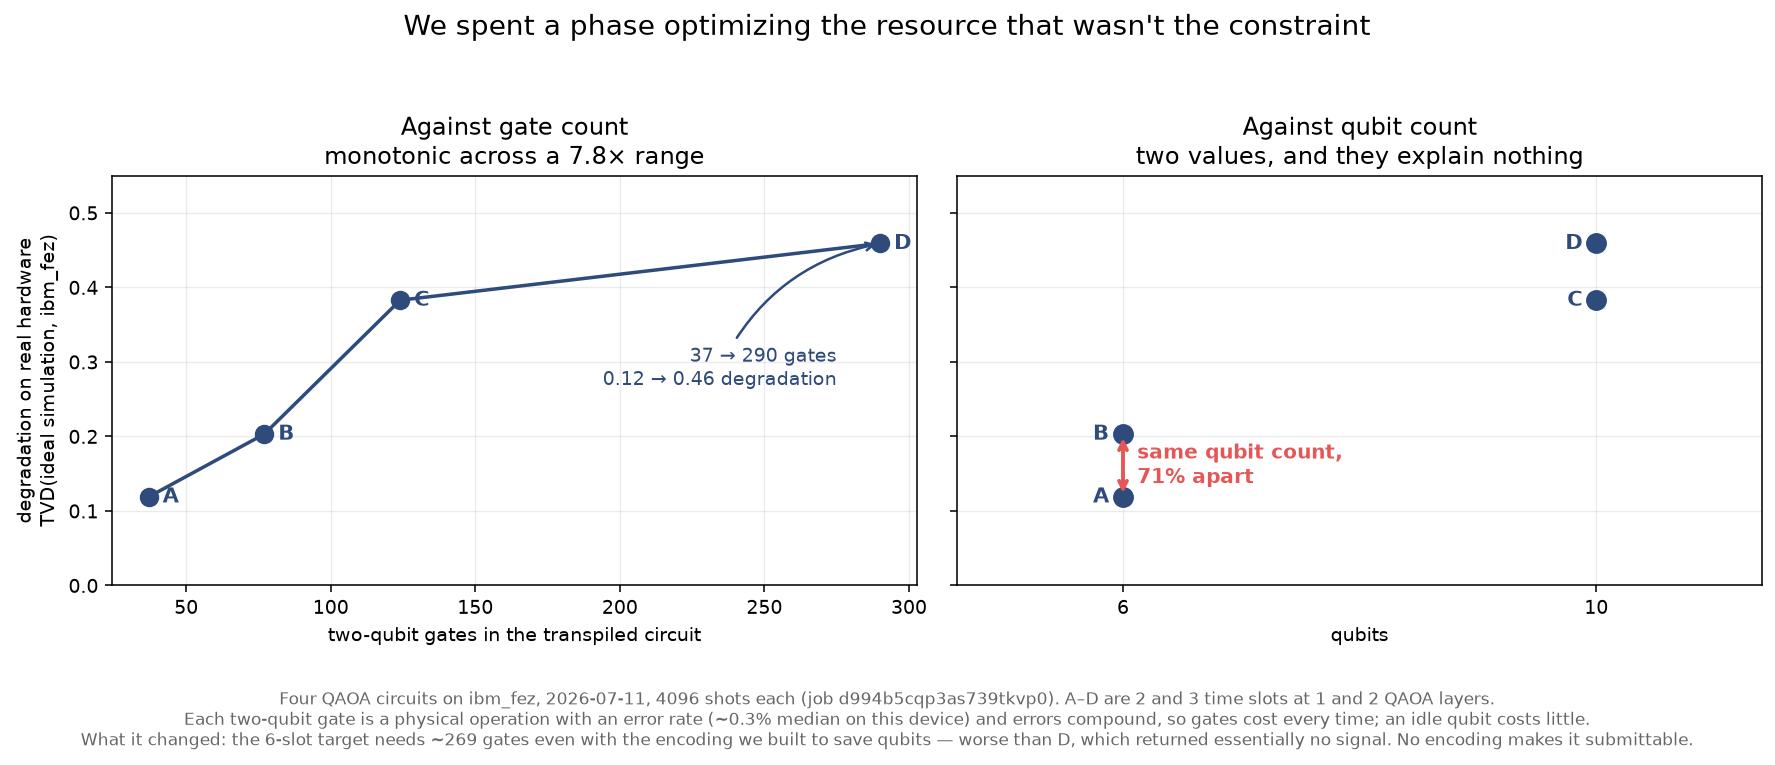
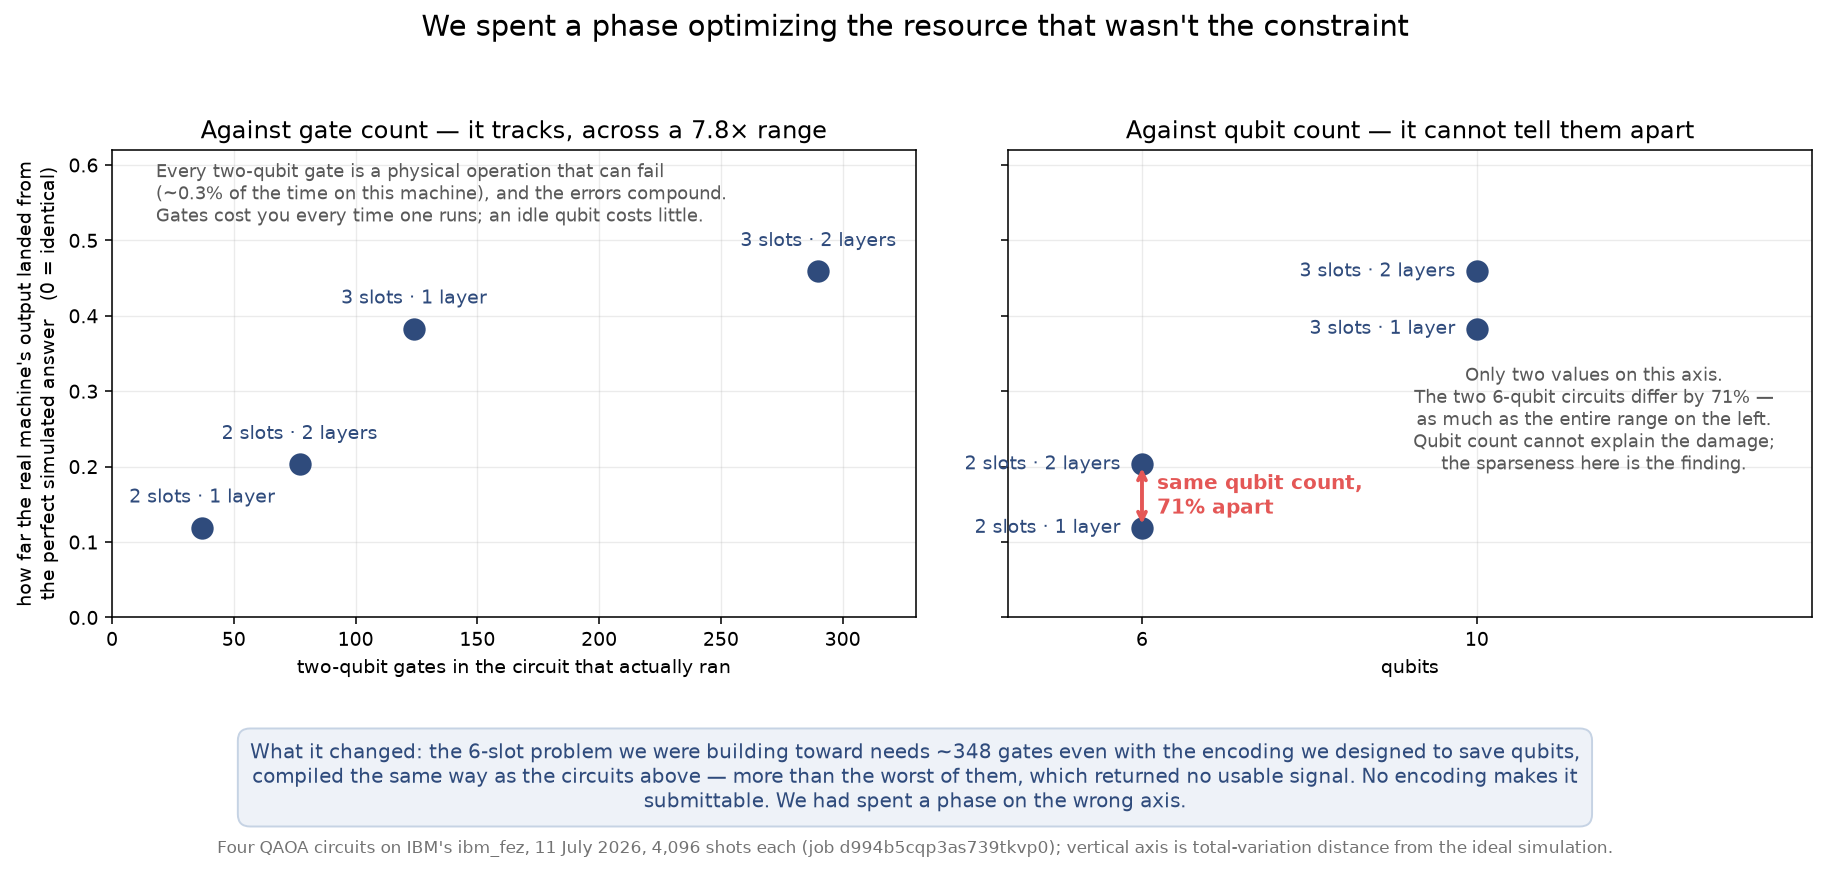
Redraw gates_vs_qubits to stand alone; fix a mixed-level comparison
The figure has to work as an attachment with no surrounding text, read by people
outside the field. Six changes to that end.

The y-axis said "TVD(ideal simulation, ibm_fez)" and now says how far the real
machine's output landed from the perfect simulated answer, with 0 = identical; TVD
stays in the caption for the technical reader. Points are labelled with what they
are -- "2 slots, 1 layer" -- rather than A to D, which nothing on the plot
explained. The connecting line is gone: these are four discrete circuits, not a
sampled curve, and a line implies a continuum that was never measured. The right
panel now states its own emptiness as the argument ("only two values on this axis
... the sparseness here is the finding") instead of reading as a chart that failed
to render. The range annotation whose arrow pointed at a single point is gone; the
range lives in the panel title. The caption is one line, and what was load-bearing
in it -- why gates cost and qubits do not, and what the result changed -- is now
inside the figure.

Fixing the last of those turned up a real error, and not in the figure.

LESSONS.md section 2 put the 6-slot problem's ~269 gates against circuit D's 290
and called it worse. 269 is fewer than 290, so as written the sentence reads as its
own refutation. The two numbers come from different transpiler settings: 269 is
optimization_level=3, while the section's table -- and this figure's x-axis -- is
[…]

diff --git a/scripts/make_gates_vs_qubits_figure.py b/scripts/make_gates_vs_qubits_figure.py
@@ -17,11 +17,20 @@ rate (~0.3% median on this device, recorded at submission) and errors compound
 multiplicatively. An idle qubit costs comparatively little; a gate costs every
 time it runs.
 
-What it changed: the 6-slot target needs ~269 gates even with the better encoding,
-worse than the worst circuit here, which had already produced essentially no usable
-signal. **No encoding makes it submittable.** A phase had gone into optimizing a
-resource that was not the binding constraint, and fifteen minutes with data already
-in hand would have reordered the project.
+What it changed: the 6-slot target needs ~348 gates even with the better encoding,
+more than the worst circuit here (290), which had already produced essentially no
+usable signal. **No encoding makes it submittable.** A phase had gone into
+optimizing a resource that was not the binding constraint, and fifteen minutes with
+data already in hand would have reordered the project.
+
+COMPILE THE COMPARISON THE SAME WAY. LESSONS.md section 2 used to put ~269 gates
+against circuit D's 290, which reads as *fewer* and makes a true claim look false.
+Those are different transpiler settings: 269 is the 6-slot circuit at
+`optimization_level=3`, while 290 -- and this figure's whole x-axis -- is level 1,
+which is what the run actually used. Like for like it is 348 vs 290 at level 1, or
+269 vs 237 at level 3; the gap holds at either, and only the mixed pairing was
+wrong. Both columns are committed in `docs/results/slack-free-encoding.md`. If you
+ever change which level this axis carries, change the 348 with it.
 
 DATA PROVENANCE, all committed, nothing re-run:
   * degradation -- TVD(ideal-sim, hardware), rebuilt here from the raw device
@@ -62,10 +71,10 @@ OUT = ROOT / "docs" / "figures" / "web" / "gates_vs_qubits.png"
 # (slack-free-encoding.md, "Transpiler optimization level"); `published` is
 # LESSONS.md section 2's degradation column, which this script must reproduce.
 CIRCUITS = [
-    {"T": 2, "reps": 1, "qubits": 6, "gates": 37, "published": 0.119, "tag": "A"},
-    {"T": 2, "reps": 2, "qubits": 6, "gates": 77, "published": 0.203, "tag": "B"},
-    {"T": 3, "reps": 1, "qubits": 10, "gates": 124, "published": 0.383, "tag": "C"},
-    {"T": 3, "reps": 2, "qubits": 10, "gates": 290, "published": 0.459, "tag": "D"},
+    {"T": 2, "reps": 1, "qubits": 6, "gates": 37, "published": 0.119},
+    {"T": 2, "reps": 2, "qubits": 6, "gates": 77, "published": 0.203},
+    {"T": 3, "reps": 1, "qubits": 10, "gates": 124, "published": 0.383},
+    {"T": 3, "reps": 2, "qubits": 10, "gates": 290, "published": 0.459},
 ]
 PUBLISHED_ATOL = 5e-4   # the published table is quoted to three decimals
 
@@ -93,92 +102,124 @@ def measured_degradation() -> list[float]:
 
         if abs(tvd - circuit["published"]) > PUBLISHED_ATOL:
             raise SystemExit(
-                f"REFUSING TO DRAW: circuit {circuit['tag']} (T={circuit['T']}, "
-                f"reps={circuit['reps']}) rebuilds to TVD(sim,hw)={tvd:.4f}, but "
-                f"LESSONS.md §2 publishes {circuit['published']:.3f} "
-                f"(tolerance {PUBLISHED_ATOL:g}). The figure and the write-up have "
-                f"diverged; fix that before drawing either."
+                f"REFUSING TO DRAW: the T={circuit['T']}, reps={circuit['reps']} "
+                f"circuit rebuilds to TVD(sim,hw)={tvd:.4f}, but LESSONS.md §2 "
+                f"publishes {circuit['published']:.3f} (tolerance "
+                f"{PUBLISHED_ATOL:g}). The figure and the write-up have diverged; "
+                f"fix that before drawing either."
             )
         out.append(tvd)
     return out
+
+
+def _describe(circuit) -> str:
+    """What a point actually is, in words rather than a letter."""
+    return (f"{circuit['T']} slots · {circuit['reps']} "
+            f"layer{'s' if circuit['reps'] > 1 else ''}")
 
 
 def main() -> None:
     degradation = measured_degradation()
     gates = np.array([c["gates"] for c in CIRCUITS], dtype=float)
     qubits = np.array([c["qubits"] for c in CIRCUITS], dtype=float)
-    tags = [c["tag"] for c in CIRCUITS]
+    labels = [_describe(c) for c in CIRCUITS]
     y = np.array(degradation)
+    spread = 100 * (y[1] / y[0] - 1)
 
-    fig, (ax_g, ax_q) = plt.subplots(1, 2, figsize=(12.8, 5.4), sharey=True)
+    fig, (ax_g, ax_q) = plt.subplots(1, 2, figsize=(13.2, 6.2), sharey=True)
 
     # --- left: against the resource that explains it -------------------------
-    ax_g.plot(gates, y, "-o", color=INK, lw=1.8, ms=9, zorder=3)
-    for x, yy, tag in zip(gates, y, tags):
-        ax_g.annotate(f"  {tag}", (x, yy), fontsize=11, weight="bold", color=INK,
-                      va="center")
-    ax_g.set_xlabel("two-qubit gates in the transpiled circuit")
-    ax_g.set_title("Against gate count\nmonotonic across a 7.8× range", fontsize=12.5)
-    ax_g.annotate(
-        f"{gates.min():.0f} → {gates.max():.0f} gates\n{y.min():.2f} → {y.max():.2f} degradation",
-        xy=(gates[-1], y[-1]), xytext=(gates[-1] - 15, y[-1] - 0.19),
-        ha="right", fontsize=10, color=INK,
-        arrowprops=dict(arrowstyle="->", color=INK, lw=1.3,
-                        connectionstyle="arc3,rad=-0.25"),
+    # No connecting line. These are four discrete circuits, not a sampled curve,
+    # and a line implies a continuum that was never measured.
+    ax_g.scatter(gates, y, s=110, color=INK, zorder=3)
+    for x, yy, label in zip(gates, y, labels):
+        ax_g.annotate(label, (x, yy), xytext=(0, 13), textcoords="offset points",
+                      ha="center", fontsize=10, color=INK)
+    ax_g.set_xlabel("two-qubit gates in the circuit that actually ran")
+    ax_g.set_xlim(0, 330)
+    ax_g.set_title("Against gate count — it tracks, across a 7.8× range",
+                   fontsize=12.5)
+    ax_g.text(
+        18, 0.605,
+        "Every two-qubit gate is a physical operation that can fail\n"
+        "(~0.3% of the time on this machine), and the errors compound.\n"
+        "Gates cost you every time one runs; an idle qubit costs little.",
+        fontsize=9.5, color="0.35", va="top",
     )
 
     # --- right: against the resource everybody counts -------------------------
-    ax_q.scatter(qubits, y, s=95, color=INK, zorder=3)
-    # Tags to the LEFT here: the right side of x=6 carries the spread arrow.
-    for x, yy, tag in zip(qubits, y, tags):
-        ax_q.annotate(f"{tag}  ", (x, yy), fontsize=11, weight="bold", color=INK,
-                      va="center", ha="right")
+    ax_q.scatter(qubits, y, s=110, color=INK, zorder=3)
+    for x, yy, label in zip(qubits, y, labels):
+        ax_q.annotate(label, (x, yy), xytext=(-11, 0), textcoords="offset points",
+                      ha="right", va="center", fontsize=10, color=INK)
     # The pair that shares a qubit count is the whole point: same x, 71% apart.
-    ax_q.annotate(
-        "", xy=(6, y[0]), xytext=(6, y[1]),
-        arrowprops=dict(arrowstyle="<->", color=ACCENT, lw=2.0),
-    )
-    ax_q.text(6.12, (y[0] + y[1]) / 2,
-              f"same qubit count,\n{100 * (y[1] / y[0] - 1):.0f}% apart",
+    ax_q.annotate("", xy=(6, y[0]), xytext=(6, y[1]),
+                  arrowprops=dict(arrowstyle="<->", color=ACCENT, lw=2.0))
+    ax_q.text(6.18, (y[0] + y[1]) / 2,
+              f"same qubit count,\n{spread:.0f}% apart",
               color=ACCENT, fontsize=10.5, weight="bold", va="center")
     ax_q.set_xlabel("qubits")
     ax_q.set_xticks([6, 10])
-    ax_q.set_xlim(4.6, 11.4)
-    ax_q.set_title("Against qubit count\ntwo values, and they explain nothing",
+    # Room to the right for the explanation, and the emptiness is itself the
+    # message rather than wasted space.
+    ax_q.set_xlim(4.4, 14.0)
+    ax_q.set_title("Against qubit count — it cannot tell them apart",
                    fontsize=12.5)
+    # Say what the emptiness means, so the panel reads as the argument rather
+    # than as a chart that failed to render.
+    ax_q.text(
+        11.4, 0.335,
+        "Only two values on this axis.\n"
+        f"The two 6-qubit circuits differ by {spread:.0f}% —\n"
+        "as much as the entire range on the left.\n"
+        "Qubit count cannot explain the damage;\n"
+        "the sparseness here is the finding.",
+        fontsize=9.5, color="0.35", va="top", ha="center",
+    )
 
-    ax_g.set_ylabel("degradation on real hardware\nTVD(ideal simulation, ibm_fez)")
+    ax_g.set_ylabel("how far the real machine's output landed from\n"
+                    "the perfect simulated answer   (0 = identical)")
     for ax in (ax_g, ax_q):
-        ax.set_ylim(0, 0.55)
+        ax.set_ylim(0, 0.62)
         ax.grid(alpha=0.25, lw=0.7)
         ax.set_axisbelow(True)
 
     fig.suptitle("We spent a phase optimizing the resource that wasn't the constraint",
-                 fontsize=14.5, y=0.98)
-    fig.tight_layout(rect=(0, 0.115, 1, 0.94))
+                 fontsize=15, y=0.985)
+    fig.tight_layout(rect=(0, 0.195, 1, 0.945))
 
-    note = (
-        "Four QAOA circuits on ibm_fez, 2026-07-11, 4096 shots each (job "
-        "d994b5cqp3as739tkvp0). A–D are 2 and 3 time slots at 1 and 2 QAOA layers.\n"
-        "Each two-qubit gate is a physical operation with an error rate (~0.3% median "
-        "on this device) and errors compound, so gates cost every time; an idle qubit "
-        "costs little.\n"
-        "What it changed: the 6-slot target needs ~269 gates even with the encoding we "
-        "built to save qubits — worse than D, which returned essentially no signal. No "
-        "encoding makes it submittable."
+    # The consequence, in the figure rather than under it: this is the reason the
+    # result mattered, and an attachment gets read without its surrounding text.
+    # 348, not the 269 quoted in LESSONS.md §2: that is the same circuit compiled
+    # at optimization_level=3, while this axis carries the level-1 counts the run
+    # actually used. Comparing 269 against 290 mixes transpiler settings and makes
+    # a true claim look false. Like for like it is 348 vs 290, or 269 vs 237.
+    fig.text(
+        0.5, 0.105,
+        "What it changed: the 6-slot problem we were building toward needs ~348 gates "
+        "even with the encoding we designed to save qubits,\ncompiled the same way as "
+        "the circuits above — more than the worst of them, which returned no usable "
+        "signal. No encoding makes it\nsubmittable. We had spent a phase on the wrong axis.",
+        ha="center", va="center", fontsize=10.5, color=INK,
+        bbox=dict(boxstyle="round,pad=0.6", facecolor="#EEF2F8", edgecolor="#C6D3E4"),
     )
-    fig.text(0.5, 0.012, note, ha="center", fontsize=8.7, color="0.4")
+    fig.text(
+        0.5, 0.018,
+        "Four QAOA circuits on IBM's ibm_fez, 11 July 2026, 4,096 shots each "
+        "(job d994b5cqp3as739tkvp0); vertical axis is total-variation distance "
+        "from the ideal simulation.",
+        ha="center", fontsize=8.5, color="0.45",
+    )
 
     OUT.parent.mkdir(parents=True, exist_ok=True)
     fig.savefig(OUT, dpi=140, bbox_inches="tight")
     print(f"wrote {OUT}")
     for circuit, tvd in zip(CIRCUITS, degradation):
-        print(f"  {circuit['tag']}  T={circuit['T']} reps={circuit['reps']}  "
-              f"{circuit['qubits']:>2} qubits  {circuit['gates']:>3} gates  "
-              f"TVD(sim,hw) = {tvd:.4f}  [reproduces LESSONS §2's "
-              f"{circuit['published']:.3f}]")
+        print(f"  {_describe(circuit):<18} {circuit['qubits']:>2} qubits  "
+              f"{circuit['gates']:>3} gates  TVD(sim,hw) = {tvd:.4f}  "
+              f"[reproduces LESSONS §2's {circuit['published']:.3f}]")
     print(f"  gate count spans {gates.max() / gates.min():.1f}×; "
-          f"the two 6-qubit circuits differ by {100 * (y[1] / y[0] - 1):.0f}%")
+          f"the two 6-qubit circuits differ by {spread:.0f}%")
 
 
 if __name__ == "__main__":

diff --git a/docs/LESSONS.md b/docs/LESSONS.md
@@ -98,10 +98,19 @@ Gates matter because each two-qubit gate is a physical operation with an error
 rate (~0.3–1% on current hardware), and errors compound multiplicatively. A qubit
 that sits idle costs you comparatively little; a gate costs you every time.
 
-**What this changed.** The 6-slot problem we had been targeting needs ~269 gates
+**What this changed.** The 6-slot problem we had been targeting needs **348 gates**
 even with the improved encoding — worse than circuit D above, which had produced
 essentially no usable signal. **No encoding makes it submittable.** We had spent a
 phase optimizing a resource that was not the binding constraint.
+
+*Compile the comparison the same way.* This paragraph used to quote **269** gates
+against circuit D's **290**, which reads as *fewer* and makes the claim look false.
+The two came from different transpiler settings: 269 is the 6-slot circuit at
+`optimization_level=3`, while the table above is at level 1, which is what the run
+actually used. Like for like it is **348 vs 290** at level 1, or **269 vs 237** at
+level 3 — the gap holds at either setting, and the mixed pairing was the only thing
+wrong. That is this document's own §6 rule ("make comparisons differ in exactly one
+thing") failing on the document itself.
 
 **Lesson: find out what actually limits you before optimizing anything.** Fifteen
 minutes with the existing data would have reordered the whole project.

diff --git a/README.md b/README.md
@@ -387,10 +387,13 @@ circuits sharing 6 qubits differ by 71%, as wide as the whole trend. Gates cost
 because each one is a physical operation with an error rate (~0.3% median on this
 device) and errors compound; an idle qubit costs comparatively little.
 
-That reordered the project. The 6-slot target needs ~269 gates *even with* the
-qubit-saving encoding — worse than circuit D, which had already returned
-essentially no usable signal. **No encoding makes it submittable**, and fifteen
-minutes with data already in hand would have said so. Regenerate with
+That reordered the project. The 6-slot target needs ~348 gates *even with* the
+qubit-saving encoding, compiled the way those circuits were — more than the worst
+of them (3 slots, 2 layers, 290 gates), which had already returned essentially no
+usable signal. (At the more aggressive `optimization_level=3` the pair is 269
+against 237; the gap holds either way, but the two settings must not be mixed.)
+**No encoding makes it submittable**, and fifteen minutes with data already in hand
+would have said so. Regenerate with
 `python scripts/make_gates_vs_qubits_figure.py`; the account is
 [`docs/LESSONS.md`](docs/LESSONS.md) §2.
 
